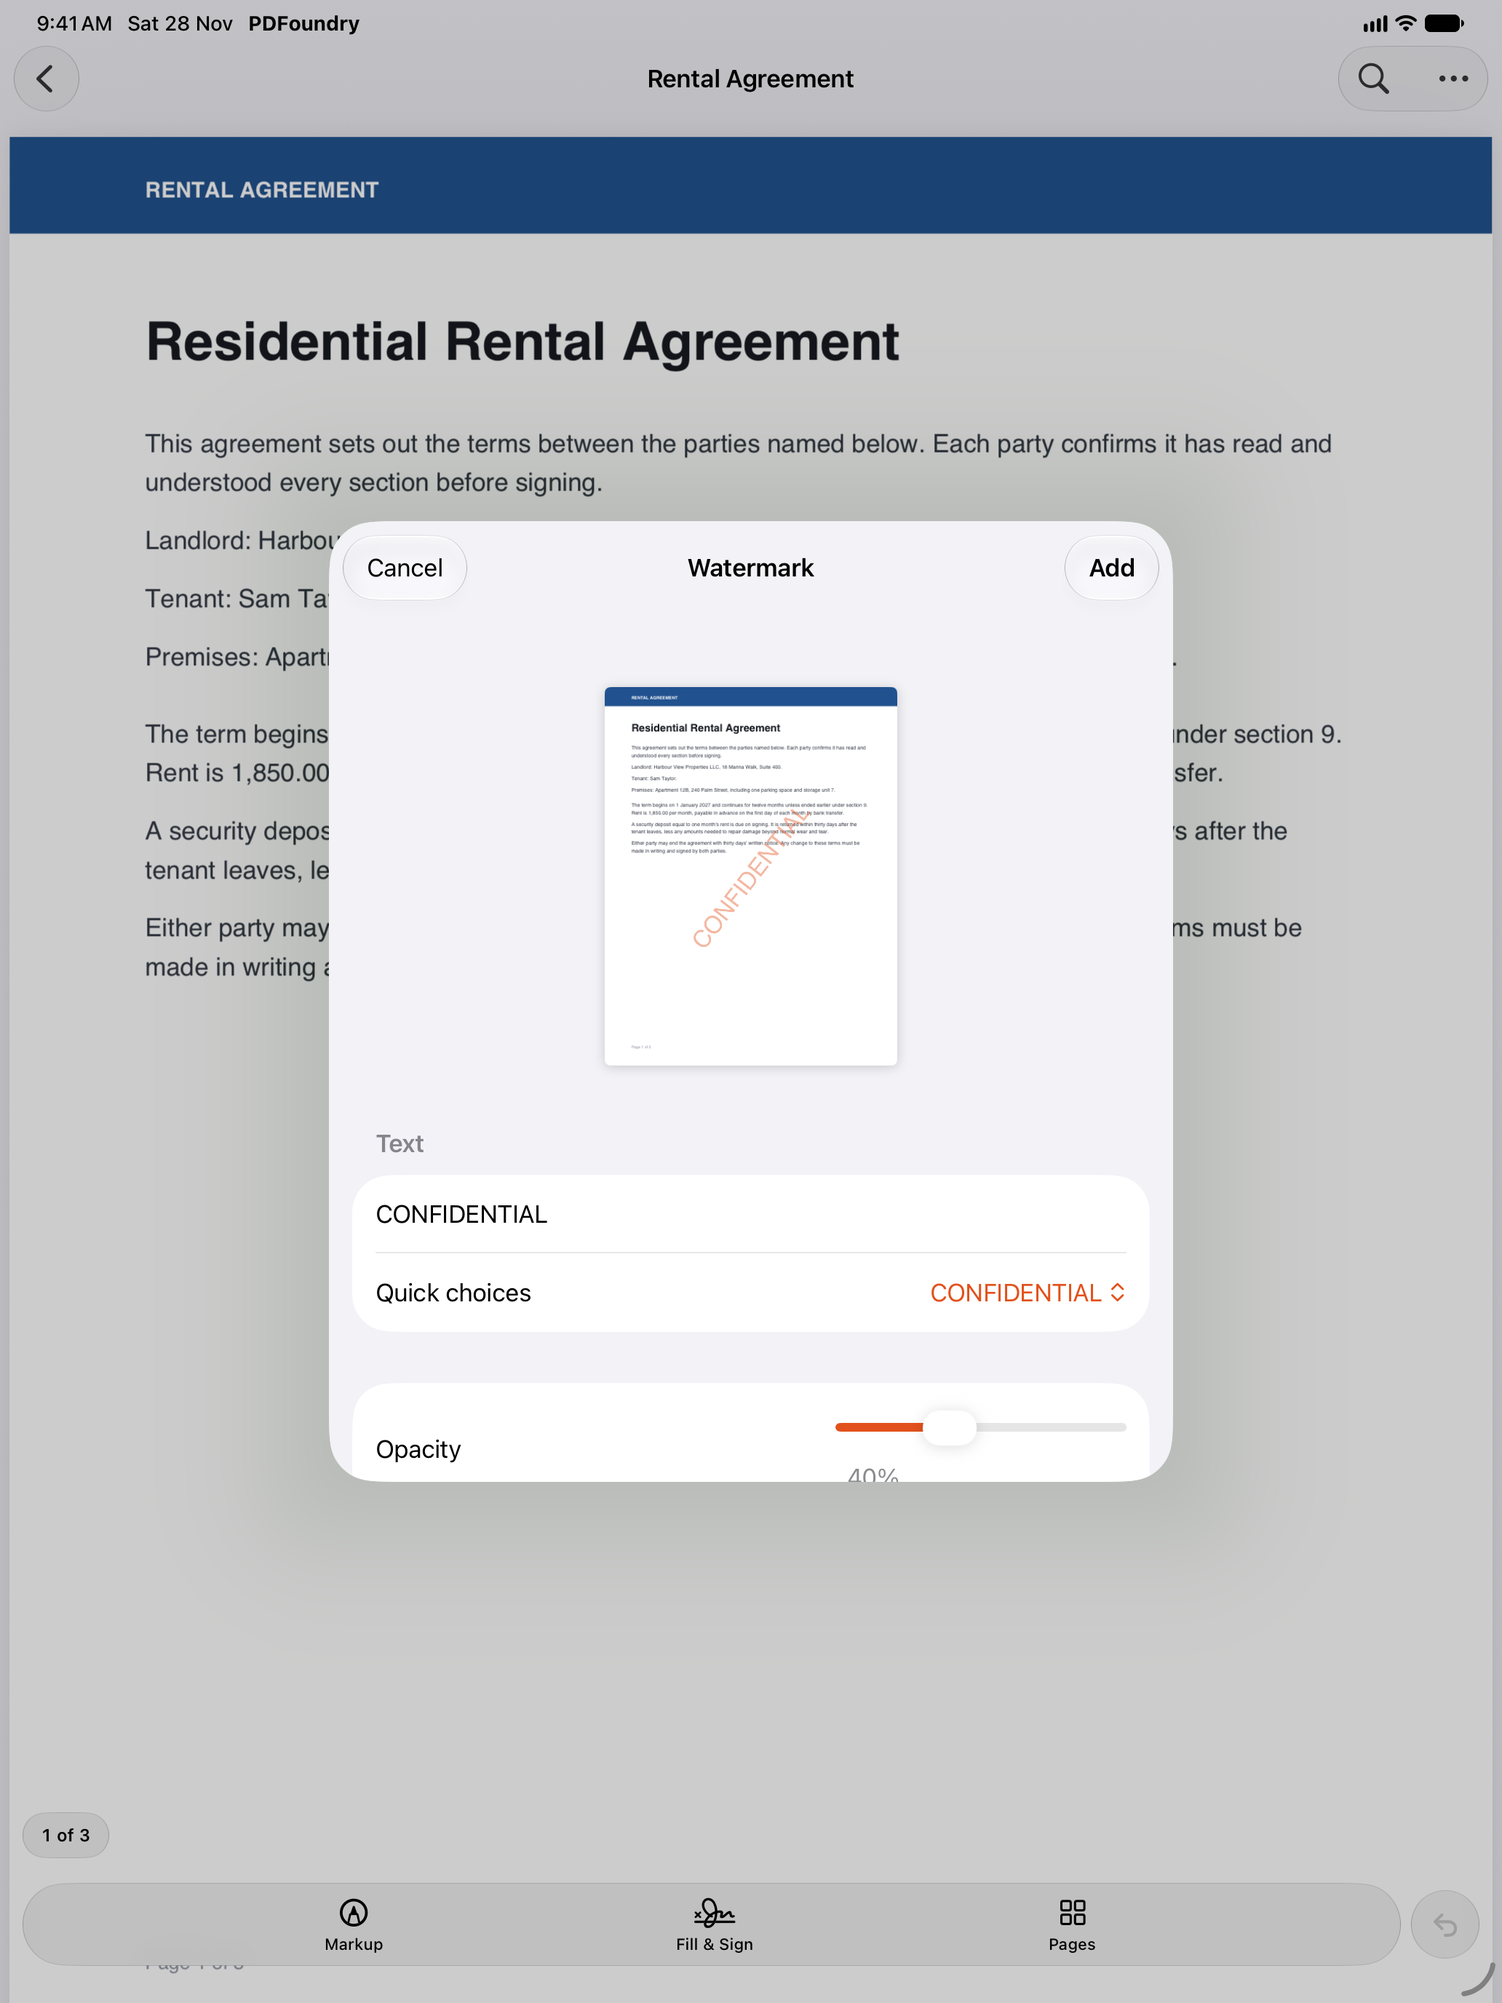
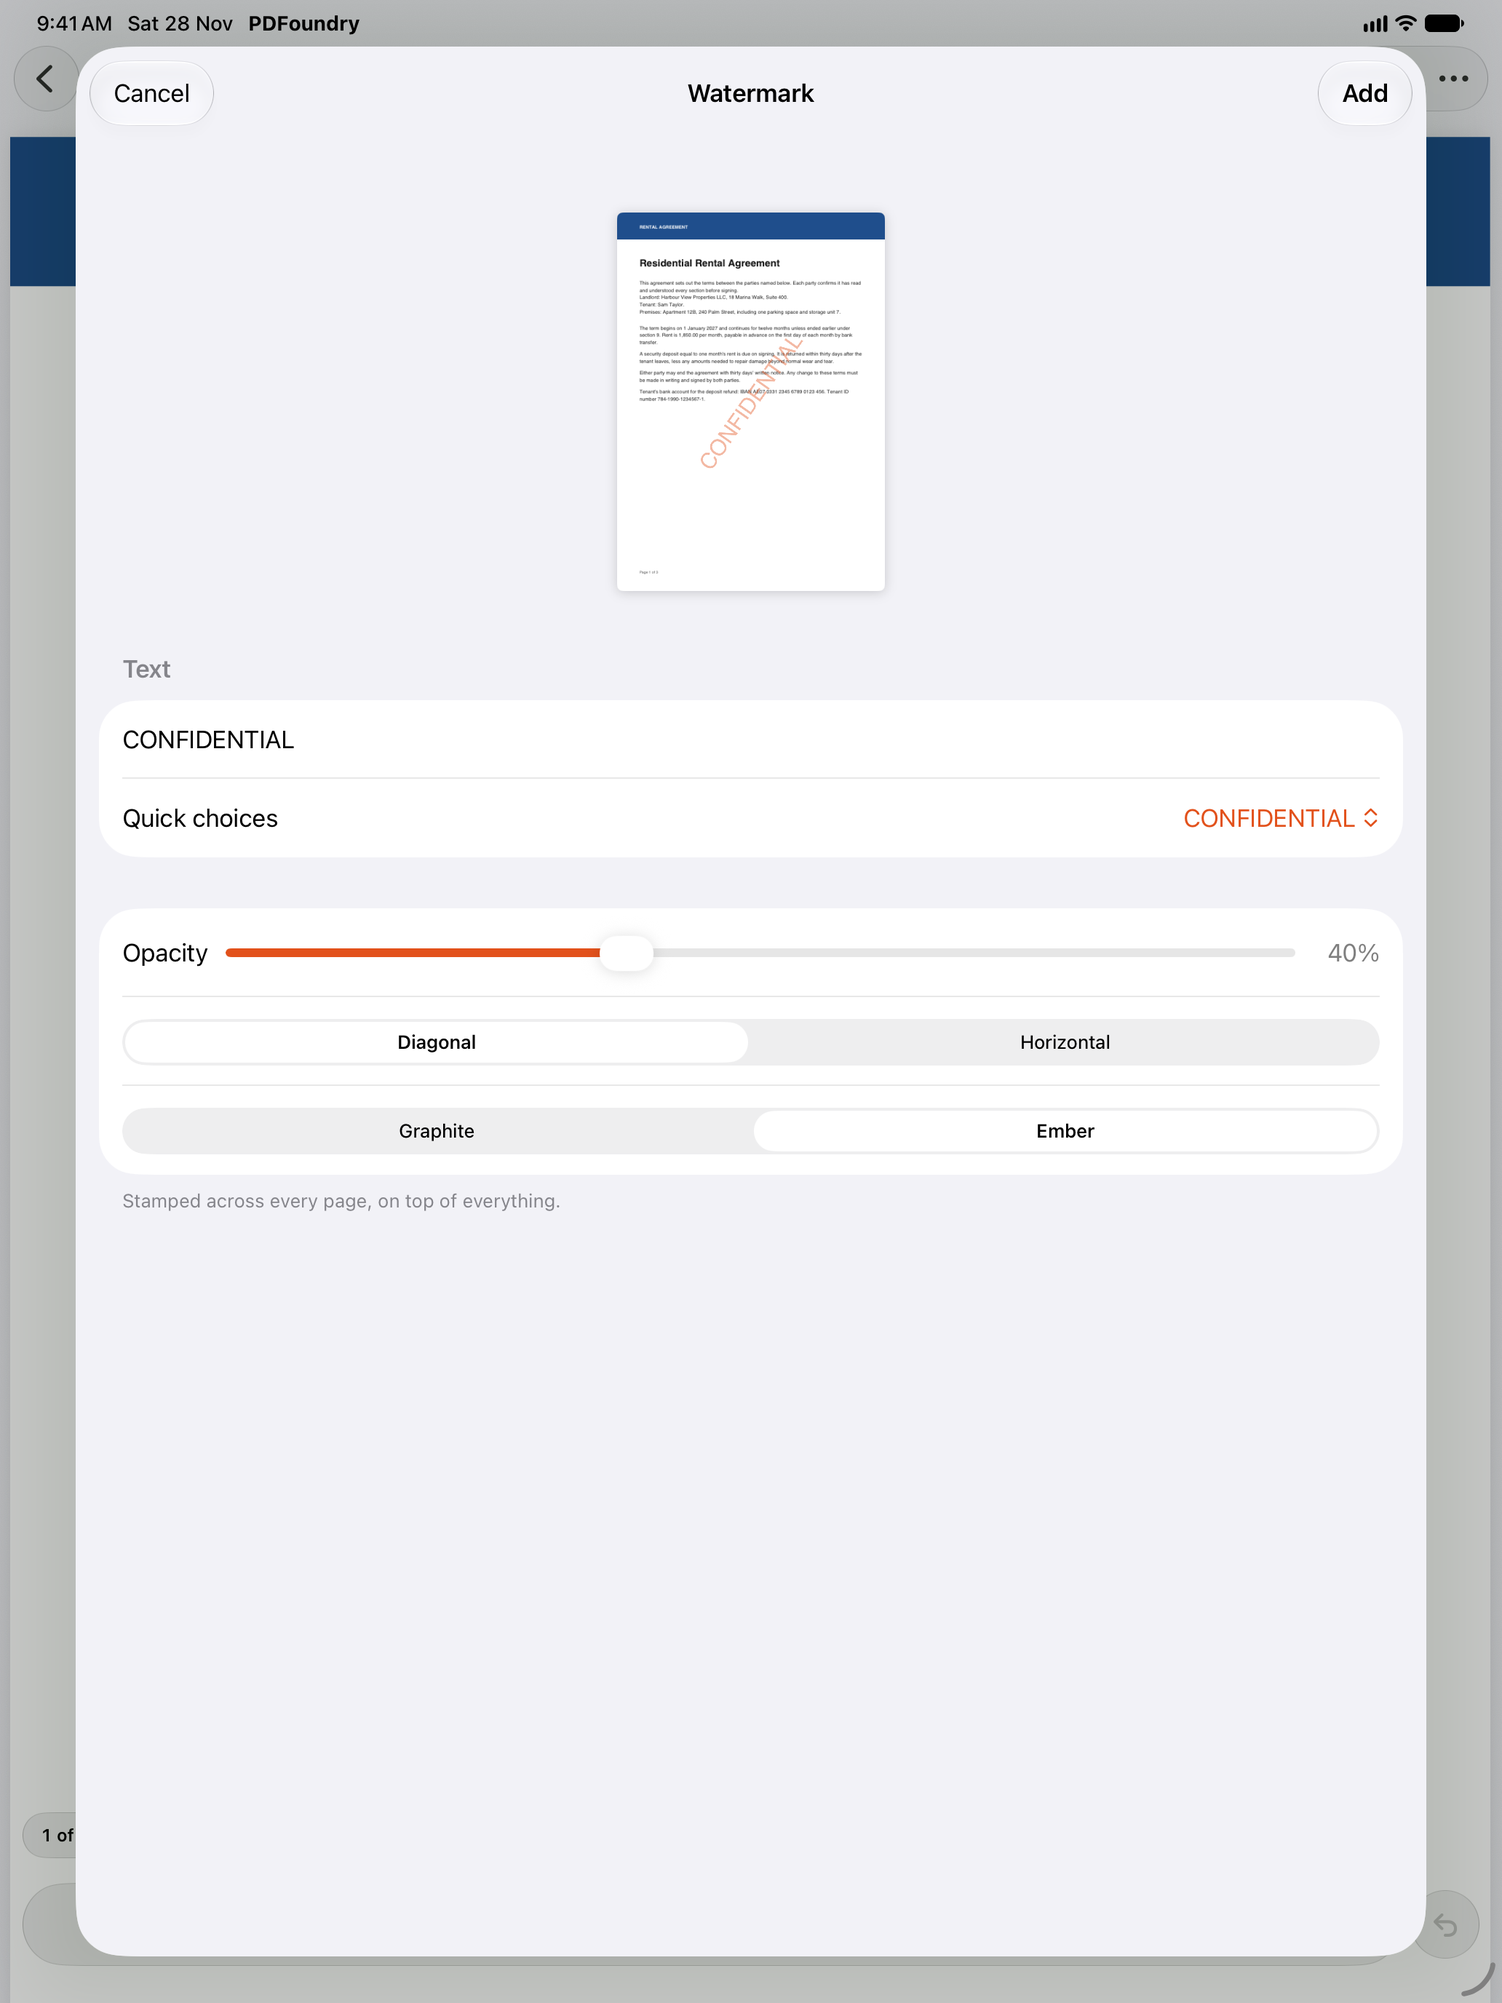
iOS: fixes from the screenshot run
- Swipe-back (edge and content) is off while any tool draws or places
  (Shapes, Draw, placement, comment, Redact): a sideways drag in Rectangle
  mode no longer leaves the reader.
- Shape and redaction boxes start at the touch-down point, not where the
  pan was recognised.
- Placed stamps are scaled down smoothly to 4 px per point, so signatures
  no longer look jagged (viewers draw stamp images with little smoothing).
- Comments show the outline and Open/Delete only, no resize handles.
- Highlight colours are solid (premixed with white): PDFKit drops a
  colour's alpha on save, so the highlight looked darker after reopening.
- Page Numbers and Watermark sheets use page sizing (iPad fits without
  scrolling); the opacity value sits in the Opacity row.
- Hint: 'draw an arrow' / 'an ellipse'.
- Re-took the iPhone and iPad watermark screenshots.

diff --git a/PDFoundryTests/UIFixTests.swift b/PDFoundryTests/UIFixTests.swift
@@ -1,0 +1,90 @@
+import PDFKit
+import Testing
+import UIKit
+@testable import PDFoundry
+
+/// Fixes found in the screenshot run: shape hint wording, stamp sharpness, highlight colour after reload.
+@MainActor
+struct UIFixTests {
+    private let folder: URL
+
+    init() throws {
+        folder = try MarkupFixture.folder("UIFixTests")
+    }
+
+    @Test func shapeHintUsesTheRightArticle() {
+        #expect(ShapeKind.arrow.drawHint == "Drag on the page to draw an arrow. Scroll with two fingers.")
+        #expect(ShapeKind.ellipse.drawHint == "Drag on the page to draw an ellipse. Scroll with two fingers.")
+        #expect(ShapeKind.rectangle.drawHint == "Drag on the page to draw a rectangle. Scroll with two fingers.")
+        #expect(ShapeKind.line.drawHint == "Drag on the page to draw a line. Scroll with two fingers.")
+    }
+
+    /// The widths of every image written into the file.
+    private func imageWidths(_ data: Data) -> [Int] {
+        let text = String(decoding: data, as: UTF8.self)
+        let expression = try! NSRegularExpression(pattern: #"/Subtype\s*/Image[^>]*?/Width\s+(\d+)|/Width\s+(\d+)[^>]*?/Subtype\s*/Image"#)
+        return expression.matches(in: text, range: NSRange(text.startIndex..., in: text)).compactMap { match in
+            for group in 1...2 {
+                if let range = Range(match.range(at: group), in: text) { return Int(text[range]) }
+            }
+            return nil
+        }
+    }
+
+    @Test func placedSignatureKeepsItsResolutionInTheFile() async throws {
+        let url = try MarkupFixture.write(MarkupFixture.textPDF([""]), named: "Sign.pdf", in: folder)
+        let (model, _) = await MarkupFixture.open(url)
+        // A signature as the pad makes it: 3 pixels per point.
+        let format = UIGraphicsImageRendererFormat()
+        format.scale = 3
+        let signature = UIGraphicsImageRenderer(size: CGSize(width: 300, height: 100), format: format).image { context in
+            UIColor.black.setStroke()
+            let path = UIBezierPath()
+            path.move(to: CGPoint(x: 10, y: 80))
+            path.addCurve(to: CGPoint(x: 290, y: 20), controlPoint1: CGPoint(x: 100, y: -40), controlPoint2: CGPoint(x: 200, y: 140))
+            path.lineWidth = 3
+            path.stroke()
+        }
+        MarkupFixture.place(signature, in: model, at: CGRect(x: 80, y: 200, width: 150, height: 50))
+        let saved = try Data(contentsOf: url)
+        let widths = imageWidths(saved)
+        // Viewers smooth the picture when it is drawn smaller or larger than its pixels.
+        #expect(String(decoding: saved, as: UTF8.self).contains("/Interpolate true"))
+        #expect(!widths.isEmpty)
+        // At least 4 pixels per point of the placed width, so it stays sharp when zoomed.
+        #expect((widths.max() ?? 0) >= 150 * 4, "image widths in the file: \(widths)")
+    }
+
+    /// The mean colour inside `rect` (page space, unrotated page drawn at 72 dpi).
+    private func meanColour(_ image: CGImage, in rect: CGRect, pageHeight: CGFloat) -> [Double] {
+        let pixels = MarkupFixture.rgba(image)
+        var sums = [0.0, 0.0, 0.0], count = 0.0
+        for y in Int(pageHeight - rect.maxY)..<Int(pageHeight - rect.minY) {
+            for x in Int(rect.minX)..<Int(rect.maxX) {
+                let o = (y * image.width + x) * 4
+                for c in 0..<3 { sums[c] += Double(pixels[o + c]) }
+                count += 1
+            }
+        }
+        return sums.map { $0 / max(count, 1) }
+    }
+
+    @Test func highlightLooksTheSameAfterReopening() async throws {
+        // PDFKit writes a highlight's colour without its transparency: the colours are solid.
+        #expect(ModeBar.highlights.allSatisfy { $0.color.cgColor.alpha == 1 })
+
+        let url = try MarkupFixture.write(MarkupFixture.textPDF(["Quarterly report for the board"]), named: "Mark.pdf", in: folder)
+        let (model, view) = await MarkupFixture.open(url)
+        let page = try #require(model.document?.page(at: 0))
+        MarkupFixture.select("Quarterly", on: page, in: view, model: model)
+        model.markup(.highlight, color: ModeBar.highlights[0].color)
+        let mark = try #require(page.annotations.first).bounds.insetBy(dx: 8, dy: 6)
+        let first = try #require(PageImage.image(of: page, dpi: 72))
+        let reloaded = try #require(PDFDocument(url: url)?.page(at: 0))
+        let again = try #require(PageImage.image(of: reloaded, dpi: 72))
+        let before = meanColour(first, in: mark, pageHeight: 792), after = meanColour(again, in: mark, pageHeight: 792)
+        let worst = zip(before, after).map { abs($0 - $1) }.max() ?? 0
+        #expect(worst <= 6, "mean colour \(before) then \(after)")
+    }
+
+}

diff --git a/PDFoundry/Features/Reader/ReaderCanvas.swift b/PDFoundry/Features/Reader/ReaderCanvas.swift
@@ -48,6 +48,11 @@ struct PDFKitView: UIViewRepresentable {
             view.document = model.document
         }
         context.coordinator.setDragsBoxes(model.dragsBoxes, in: view)
+        let toolOn = model.mode != .reading || model.toolMode == .redact || model.pendingRedactionCount > 0
+        // After this update, when the view is in the navigation controller's hierarchy.
+        DispatchQueue.main.async { [coordinator = context.coordinator] in
+            coordinator.setSwipeBack(enabled: !toolOn, from: view)
+        }
         let direction: PDFDisplayDirection = horizontal ? .horizontal : .vertical
         if view.displayDirection != direction {
             view.displayDirection = direction
@@ -56,6 +61,10 @@ struct PDFKitView: UIViewRepresentable {
     }
 
     func makeCoordinator() -> Coordinator { Coordinator(model: model) }
+
+    static func dismantleUIView(_ view: PDFView, coordinator: Coordinator) {
+        coordinator.setSwipeBack(enabled: true, from: view)
+    }
 
     final class Coordinator: NSObject, UIGestureRecognizerDelegate {
         private let model: ReaderModel
@@ -101,9 +110,8 @@ struct PDFKitView: UIViewRepresentable {
             let point = recognizer.location(in: view)
             switch recognizer.state {
             case .began:
-                // The pan begins after the finger has moved a little: start where it went down.
-                let moved = recognizer.translation(in: view)
-                let start = CGPoint(x: point.x - moved.x, y: point.y - moved.y)
+                // The pan is recognised only after the finger has moved: start where it went down.
+                let start = touchDown ?? point
                 dragStart = start
                 model.boxDraft = (start, point)
             case .changed:
@@ -119,6 +127,24 @@ struct PDFKitView: UIViewRepresentable {
 
         func gestureRecognizerShouldBegin(_ recognizer: UIGestureRecognizer) -> Bool {
             recognizer === boxPan ? model.dragsBoxes : true
+        }
+
+        /// Where the finger went down, before the pan was recognised.
+        private var touchDown: CGPoint?
+
+        func gestureRecognizer(_ recognizer: UIGestureRecognizer, shouldReceive touch: UITouch) -> Bool {
+            if recognizer === boxPan { touchDown = touch.location(in: recognizer.view) }
+            return true
+        }
+
+        /// The navigation controller's swipe-back gestures (edge and, since iOS 26, anywhere on the content) are off
+        /// while a tool draws or places on the page, so a sideways drag never leaves the reader.
+        func setSwipeBack(enabled: Bool, from view: UIView) {
+            var responder: UIResponder? = view
+            while let current = responder, !(current is UIViewController) { responder = current.next }
+            guard let navigation = (responder as? UIViewController)?.navigationController else { return }
+            navigation.interactivePopGestureRecognizer?.isEnabled = enabled
+            navigation.interactiveContentPopGestureRecognizer?.isEnabled = enabled
         }
 
         @objc func pageChanged() {

diff --git a/PDFoundry/Core/PDFOperations.swift b/PDFoundry/Core/PDFOperations.swift
@@ -216,10 +216,28 @@ enum PDFOperations {
     @discardableResult
     static func stamp(_ image: UIImage, on page: PDFPage, bounds: CGRect) -> PDFAnnotation? {
         let upright = image.rotatedCounterClockwise(degrees: page.rotation)
-        guard let cgImage = upright.cgImage else { return nil }
+        guard let original = upright.cgImage else { return nil }
+        // PDF viewers (PDFView included) scale a stamp's picture with little smoothing, so a picture many times
+        // larger than it is shown looks jagged. It is scaled down here, smoothly, to 4 pixels per point.
+        let cgImage = smoothlySized(original, pixelsPerPoint: 4, for: bounds.size) ?? original
         let annotation = ImageStampAnnotation(image: cgImage, bounds: bounds)
         page.addAnnotation(annotation)
         return annotation
+    }
+
+    /// `image` scaled down with high-quality interpolation so it has about `pixelsPerPoint` pixels per point at
+    /// `size`; nil when it is already that small or smaller (it is never enlarged).
+    static func smoothlySized(_ image: CGImage, pixelsPerPoint: CGFloat, for size: CGSize) -> CGImage? {
+        guard size.width > 0, size.height > 0 else { return nil }
+        let scale = min(size.width * pixelsPerPoint / CGFloat(image.width), size.height * pixelsPerPoint / CGFloat(image.height))
+        guard scale < 0.9 else { return nil }
+        let width = max(1, Int((CGFloat(image.width) * scale).rounded())), height = max(1, Int((CGFloat(image.height) * scale).rounded()))
+        guard let context = CGContext(data: nil, width: width, height: height, bitsPerComponent: 8, bytesPerRow: 0,
+                                      space: CGColorSpaceCreateDeviceRGB(),
+                                      bitmapInfo: CGImageAlphaInfo.premultipliedLast.rawValue) else { return nil }
+        context.interpolationQuality = .high
+        context.draw(image, in: CGRect(x: 0, y: 0, width: width, height: height))
+        return context.makeImage()
     }
 
     /// The short guide placed in the library on first launch.

diff --git a/PDFoundry/Features/Reader/ModeBar.swift b/PDFoundry/Features/Reader/ModeBar.swift
@@ -20,12 +20,22 @@ struct ModeBar: View {
     @Namespace private var glass
 
     /// Highlight colours, the same on every platform.
+    /// Solid colours, already mixed with white: PDFKit drops a colour's transparency when it writes a highlight, so a
+    /// see-through colour looked paler when made than after the file was opened again.
     static let highlights: [(name: String, color: UIColor)] = [
-        ("Yellow", .systemYellow.withAlphaComponent(0.5)),
-        ("Green", .systemGreen.withAlphaComponent(0.4)),
-        ("Pink", .systemPink.withAlphaComponent(0.4)),
-        ("Blue", .systemBlue.withAlphaComponent(0.35)),
+        ("Yellow", onWhite(.systemYellow, 0.5)),
+        ("Green", onWhite(.systemGreen, 0.4)),
+        ("Pink", onWhite(.systemPink, 0.4)),
+        ("Blue", onWhite(.systemBlue, 0.35)),
     ]
+
+    /// `color` at `alpha` over white, as one solid colour (Light Mode values, so it doesn't change with appearance).
+    static func onWhite(_ color: UIColor, _ alpha: CGFloat) -> UIColor {
+        var r: CGFloat = 0, g: CGFloat = 0, b: CGFloat = 0, a: CGFloat = 0
+        color.resolvedColor(with: UITraitCollection(userInterfaceStyle: .light)).getRed(&r, green: &g, blue: &b, alpha: &a)
+        func mix(_ c: CGFloat) -> CGFloat { c * alpha + (1 - alpha) }
+        return UIColor(red: mix(r), green: mix(g), blue: mix(b), alpha: 1)
+    }
 
     var body: some View {
         GlassEffectContainer(spacing: 8) {

diff --git a/PDFoundry/Features/Reader/ReaderView.swift b/PDFoundry/Features/Reader/ReaderView.swift
@@ -131,8 +131,9 @@ struct ReaderView: View {
             }
             .sheet(item: $toolSheet) { tool in
                 switch tool {
-                case .pageNumbers: PageNumbersSheet(model: model)
-                case .watermark: WatermarkSheet(model: model)
+                // Tall enough for the preview and every control without scrolling (iPad's form size is too short).
+                case .pageNumbers: PageNumbersSheet(model: model).presentationSizing(.page)
+                case .watermark: WatermarkSheet(model: model).presentationSizing(.page)
                 case .makeSearchable: OCRSheet(model: model).presentationDetents([.medium])
                 case .redact: EmptyView()
                 }
@@ -249,7 +250,7 @@ struct ReaderView: View {
         switch model.mode {
         case .drawing: "Draw on the page, then tap Done."
         case .placing: "Drag to move. Use the handle to resize."
-        case .shaping: "Drag on the page to draw a \(model.shapeKind.title.lowercased()). Scroll with two fingers."
+        case .shaping: model.shapeKind.drawHint
         case .commenting: "Tap where the comment goes."
         case .reading:
             model.hint ?? (model.toolMode == .redact && model.pendingRedactionCount == 0

diff --git a/PDFoundry/Features/Tools/PageNumbersSheet.swift b/PDFoundry/Features/Tools/PageNumbersSheet.swift
@@ -141,12 +141,16 @@ struct WatermarkSheet: View {
                 }
 
                 Section {
-                    LabeledContent("Opacity") {
+                    // One row: the title, the slider, the value.
+                    HStack(spacing: 12) {
+                        Text("Opacity")
                         Slider(value: $style.opacity, in: 0.05...1, step: 0.05)
-                            .frame(maxWidth: 200)
+                            .accessibilityLabel("Opacity")
                         Text("\(Int((style.opacity * 100).rounded()))%")
                             .monospacedDigit()
-                            .frame(width: 44, alignment: .trailing)
+                            .foregroundStyle(.secondary)
+                            .frame(width: 46, alignment: .trailing)
+                            .accessibilityHidden(true)
                     }
                     Picker("Direction", selection: $style.diagonal) {
                         Text("Diagonal").tag(true)

diff --git a/PDFoundry/Features/Reader/SelectionOverlay.swift b/PDFoundry/Features/Reader/SelectionOverlay.swift
@@ -32,7 +32,8 @@ struct SelectionOverlay: View {
                         .accessibilityLabel("Selected \(selected.title)")
                         .accessibilityHint(selected.isMovable ? "Drag to move." : "")
 
-                    if selected.isMovable {
+                    // A comment is a small icon: no resize handles, which would cover it.
+                    if selected.isMovable, !selected.isComment {
                         ForEach(Corner.allCases, id: \.self) { corner in
                             handle
                                 .position(point(of: corner, in: box))

diff --git a/PDFoundry/Core/Marks.swift b/PDFoundry/Core/Marks.swift
@@ -37,6 +37,13 @@ enum ShapeKind: CaseIterable {
     }
 
     static let lineWidth: CGFloat = 2
+
+    /// The banner while the shape tool is on.
+    var drawHint: String {
+        let name = title.lowercased()
+        let article = name.first.map { "aeiou".contains($0) } == true ? "an" : "a"
+        return "Drag on the page to draw \(article) \(name). Scroll with two fingers."
+    }
 }
 
 /// The Check (✓) and Cross (✗) marks of Fill & Sign.
